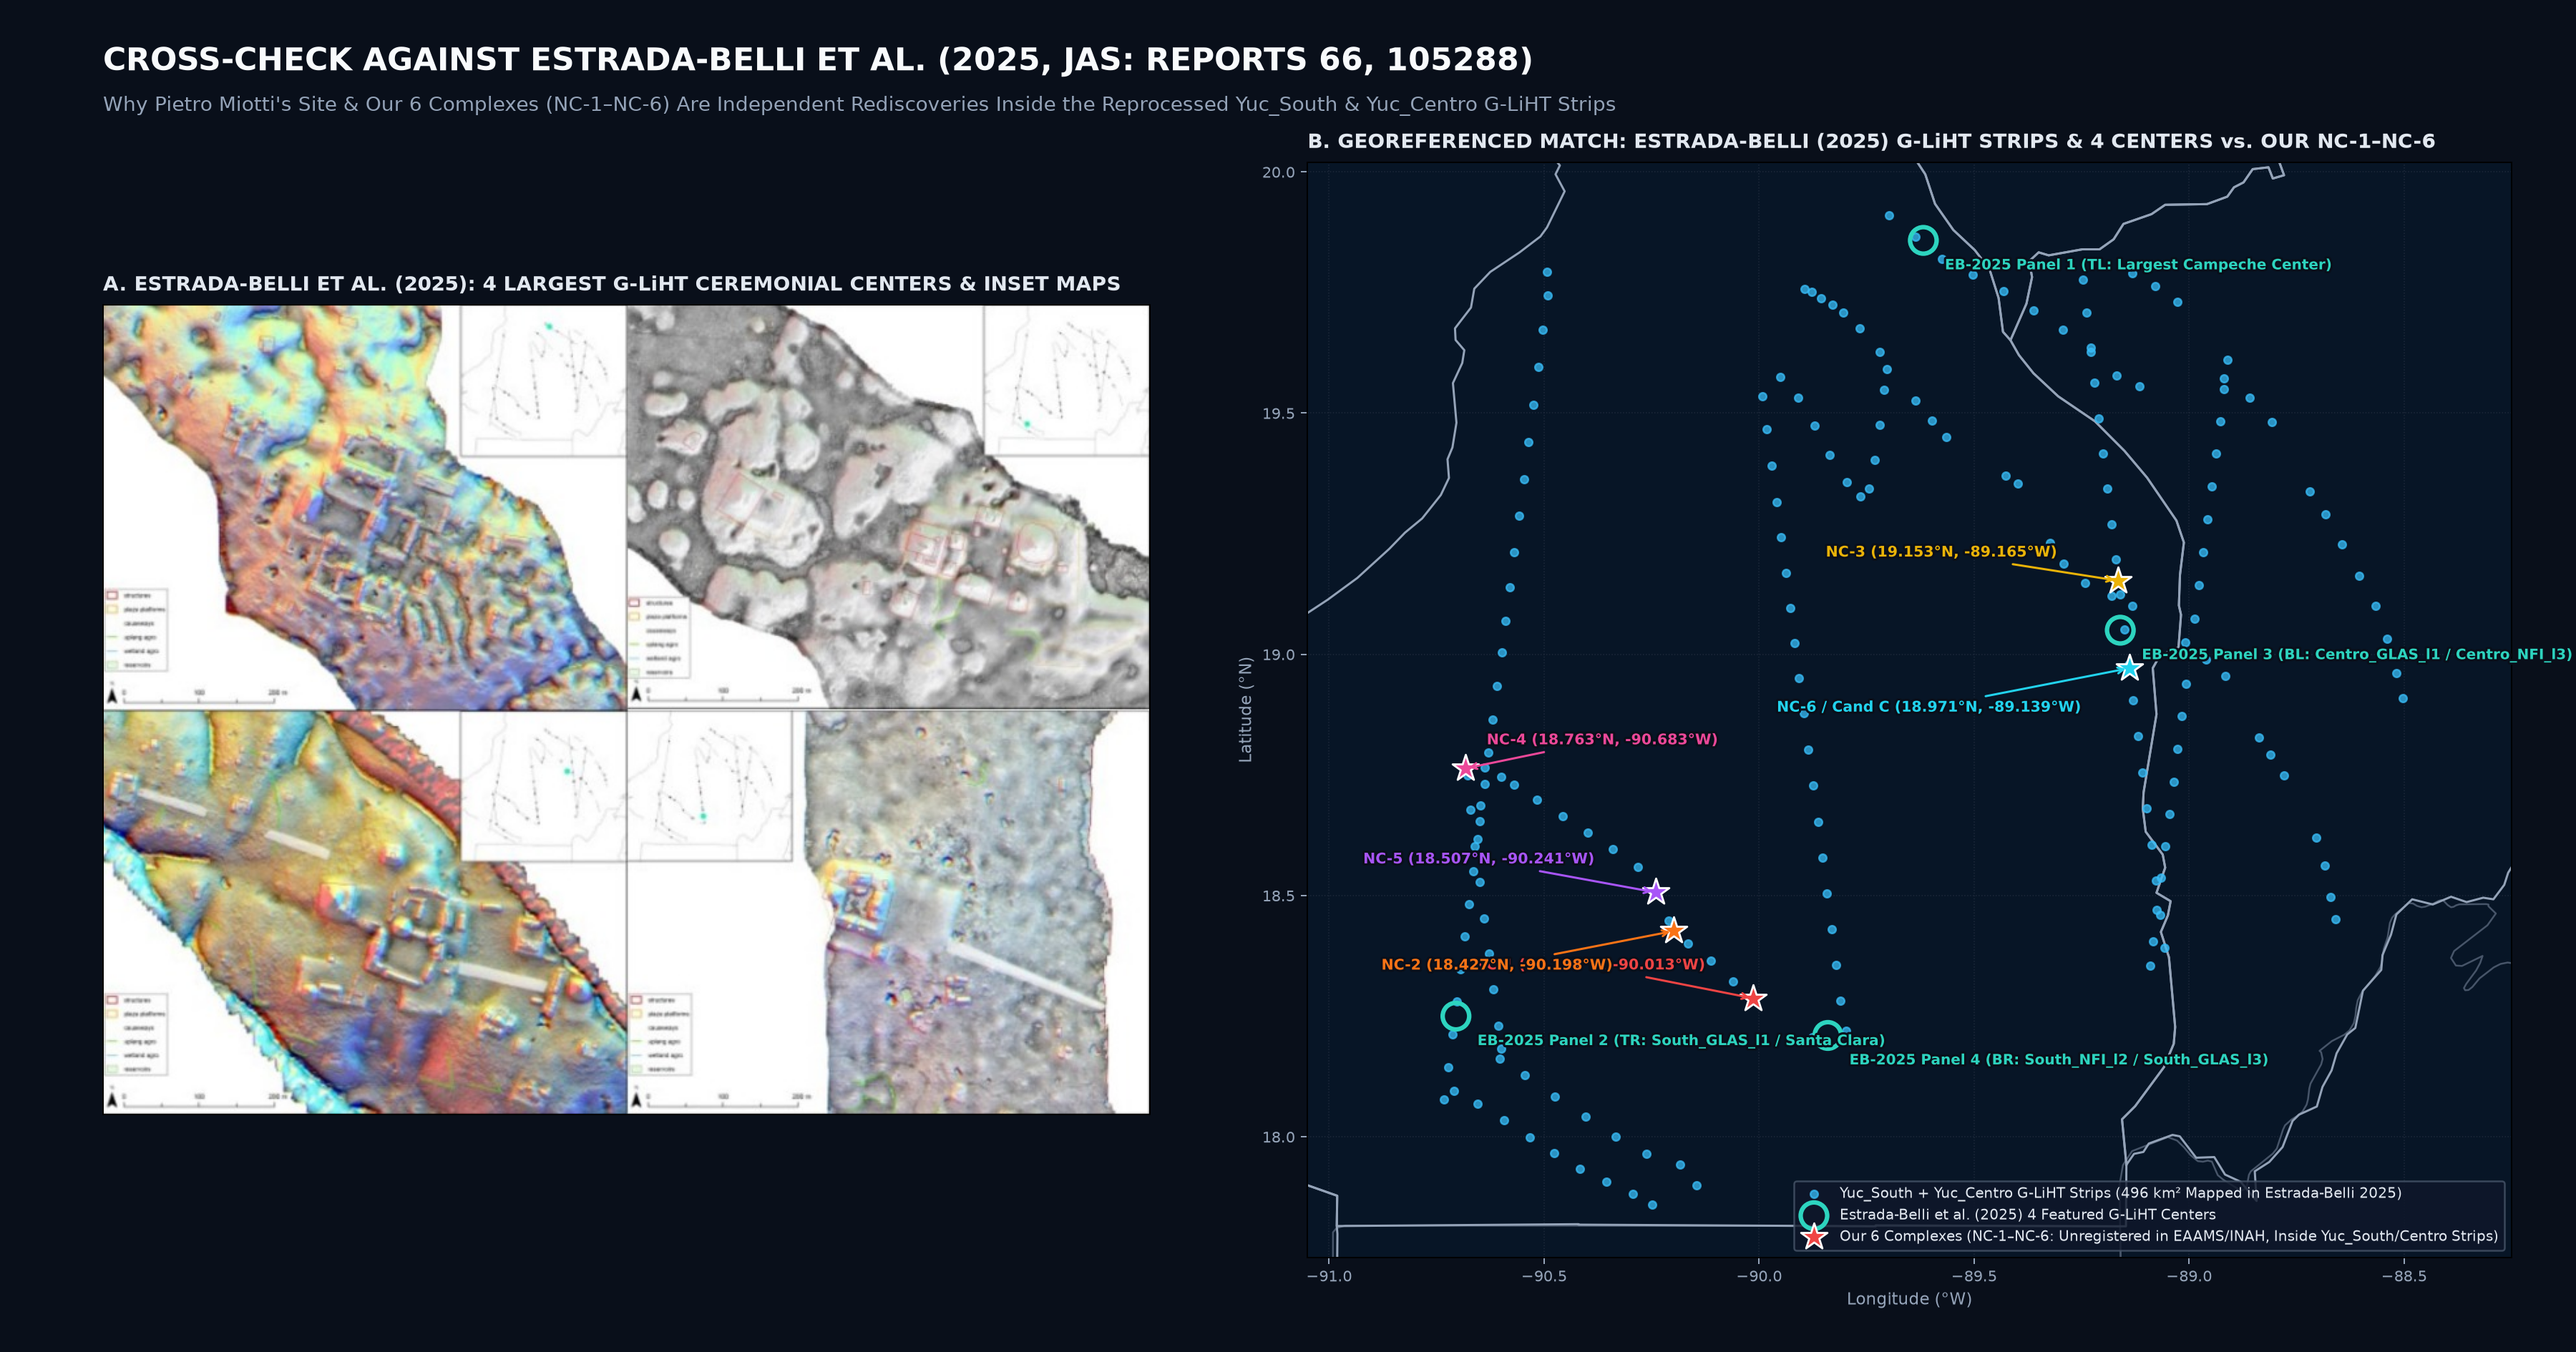
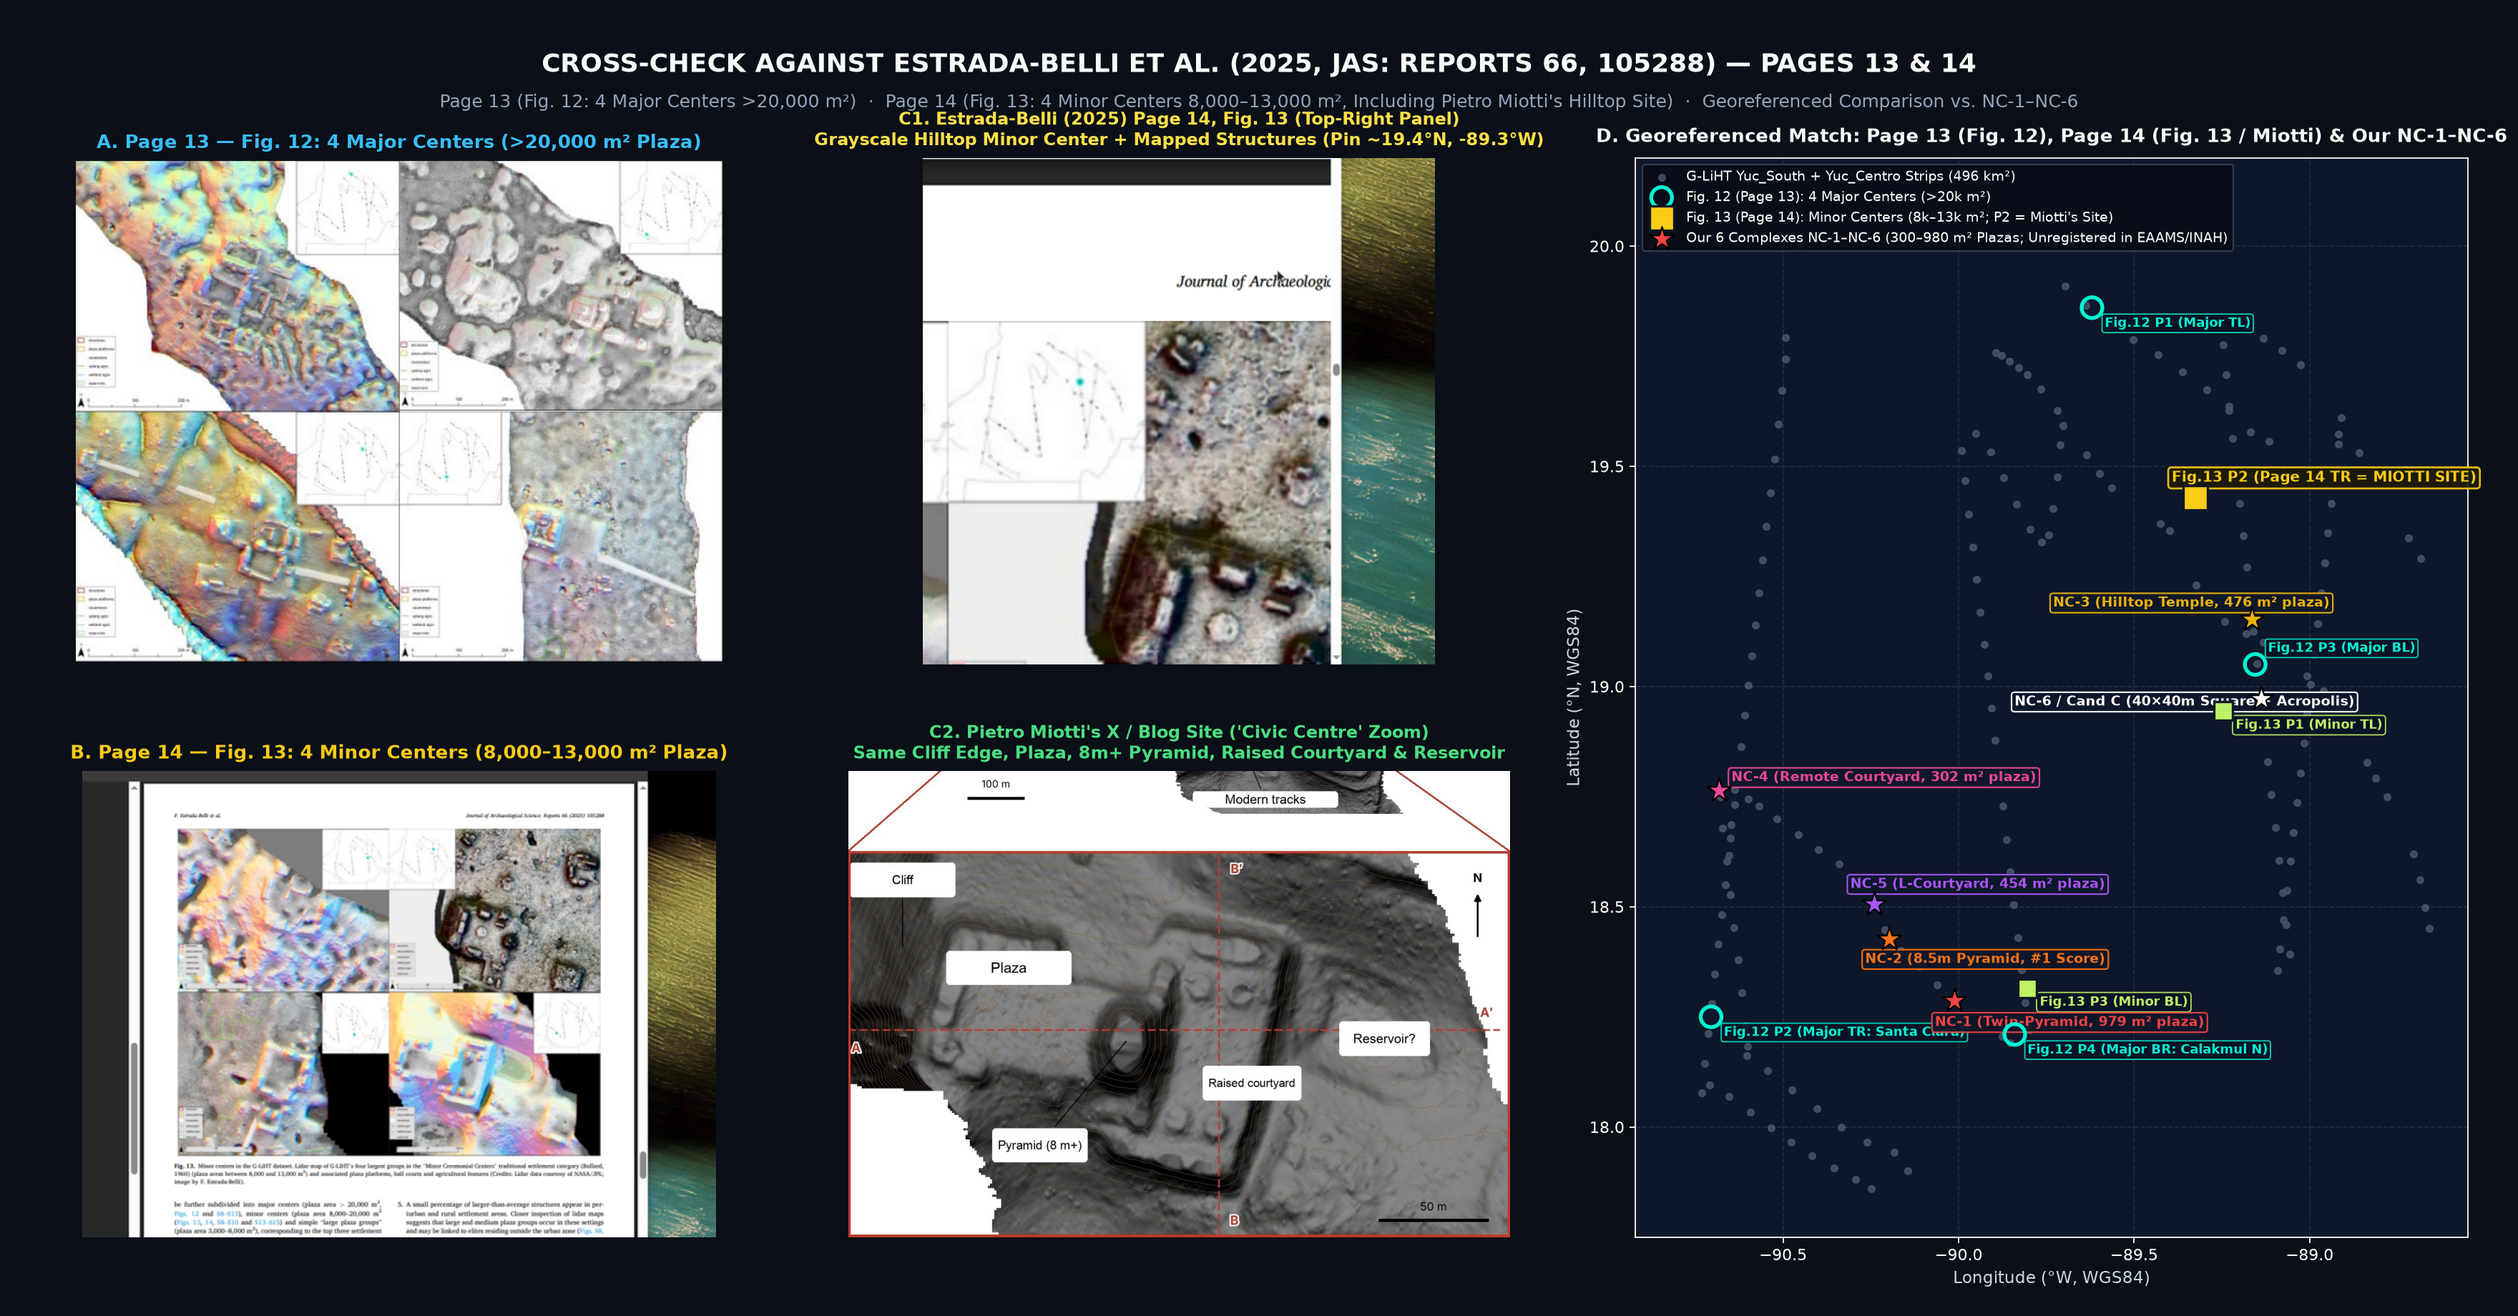
Update Estrada-Belli (2025) comparison with Page 14 (Fig. 13) match to Miotti site

diff --git a/README.md b/README.md
@@ -116,26 +116,28 @@ On November 11, 2026, Pietro Miotti updated the top of his blog post ([pietromio
 
 > *"Update (11 November): it turns out the site had already been mapped in Estrada-Belli et al. 2025. The agents missed it while going through the literature, so they rediscovered it rather than discovered it (it just wasn't in INAH's register yet). Still work to do then!"*
 
-We pulled and analyzed **Estrada-Belli, Canuto, Šprajc & Fernandez-Diaz (July 2025)** — *"New regional-scale Classic Maya population density estimates and settlement distribution models through airborne lidar scanning"* (*Journal of Archaeological Science: Reports*, Vol. 66, 105288, [DOI: 10.1016/j.jasrep.2025.105288](https://doi.org/10.1016/j.jasrep.2025.105288)) — and georeferenced its G-LiHT flight-line inset maps directly against our 456 transects and `NC-1` through `NC-6`:
+We pulled and analyzed **Estrada-Belli, Canuto, Šprajc & Fernandez-Diaz (July 2025)** — *"New regional-scale Classic Maya population density estimates and settlement distribution models through airborne lidar scanning"* (*Journal of Archaeological Science: Reports*, Vol. 66, 105288, [DOI: 10.1016/j.jasrep.2025.105288](https://doi.org/10.1016/j.jasrep.2025.105288)) — inspecting both **Page 13 (Figure 12: Major Centers `> 20,000 m²` plaza)** and **Page 14 (Figure 13: Minor Centers `8,000–13,000 m²` plaza)** and georeferencing their G-LiHT flight-line inset pins directly against Pietro Miotti's site and our `NC-1` through `NC-6`:
 
 ![Cross-Check Against Estrada-Belli et al. (2025, JAS: Reports 66, 105288)](media/estrada-belli-2025-gliht-comparison.png)
 
-### What Estrada-Belli et al. (2025) Did — And What It Means for `NC-1`–`NC-6`
+### What Estrada-Belli et al. (2025) Shows on Pages 13 & 14 — And What It Means for Pietro's Site vs. `NC-1`–`NC-6`
 
-1. **Estrada-Belli et al. (2025) Reprocessed and Mapped the Entire `Yuc_South` & `Yuc_Centro` NASA G-LiHT Dataset (`~496 km²`):**
+1. **Yes — Pietro Miotti's Exact X/Twitter Hilltop Site Appears on Page 14 (Figure 13, Top-Right Panel):**
+   - While **Page 13 (Figure 12, `Panel A` above)** illustrates the 4 largest **Major Ceremonial Centers** (`plaza area > 20,000 m²`), **Page 14 (Figure 13, `Panel B` above)** is captioned: *"Fig. 13. Minor centers in the G-LiHT dataset. Lidar map of G-LiHT's four largest groups in the 'Minor Ceremonial Centers' traditional settlement category (Bullard, 1960) (plaza areas between 8,000 and 13,000 m²) and associated plaza platforms, ball courts and agricultural features."*
+   - Side-by-side comparison (`Panels C1 & C2` above) confirms that **Figure 13's top-right panel on Page 14 (`Pin ~19.43°N, -89.33°W` in central Campeche)** is **Pietro Miotti's exact cliff-edge hilltop civic center**: it displays the same western cliff escarpment, flat western plaza, central `8–12 m` pyramid, eastern attached raised courtyard, eastern reservoir (`aguada`) depression, and southern downslope platforms.
+
+2. **Estrada-Belli et al. (2025) Also Mapped the Entire `Yuc_South` & `Yuc_Centro` NASA G-LiHT Dataset (`~496 km²`, `21,687+` Structures):**
    - To estimate Classic Maya population across a `95,000 km²` region (`9.5–16 million` people), Estrada-Belli, Canuto, Šprajc, and Fernandez-Diaz aggregated `853 km²` of airborne LiDAR in Southern Campeche and Southern Quintana Roo: (a) the **2013 NASA G-LiHT `Yuc_South` and `Yuc_Centro` strips (`~496 km²`)**, reprocessed from raw point clouds using NCALM / Fernandez-Diaz’s adaptive TIN ground-classification routine; (b) the 2013 Alianza M-REDD+ Campeche strips (`~122 km²`, Auld-Thomas et al. 2024); and (c) the 2016 Chactún–Tamchén–Lagunita block (`~236 km²`, Šprajc et al. 2021/2022).
    - Across those `Yuc_South` and `Yuc_Centro` G-LiHT strips, Estrada-Belli et al. (2025) **mapped every structure, plaza platform, causeway (`sacbé`), reservoir (`aguada`), and agricultural feature**, demonstrating that **nearly 100% of rural residences lie within `5 km` of a medium or large elite-controlled plaza group**.
-   - Furthermore, three other academic studies have also scanned these exact public NASA G-LiHT strips at macro-scale: **Schroder, Murtha, Golden et al. (2020, *JAS: Reports* 33, 102543)** annotated structure/platform densities across all `458` G-LiHT tiles; **Hutson, Dunning, Cook et al. (2021, *J. Anthropol. Res.*)** digitized `>2,500` structures and `74` basal platforms on `Centro_GLAS`; and **Benjamin Britton (Nov 4, 2026, OpenTopography DOIs `10.5069/G9TH8JX9` & `10.5069/G9Z899N1`)** reprocessed all `456` strips at `0.33 m` using Fernandez-Diaz & Estrada-Belli et al. (2025)’s ground-classification parameters to catalog **57,181 structures**.
+   - Three other academic studies have also scanned these public NASA G-LiHT strips at macro-scale: **Schroder et al. (2020, *JAS: Reports* 33, 102543)** across all `458` G-LiHT tiles; **Hutson et al. (2021, *J. Anthropol. Res.*)** across `Centro_GLAS`; and **Benjamin Britton (Nov 4, 2026, OpenTopography DOIs `10.5069/G9TH8JX9` & `10.5069/G9Z899N1`)** cataloging **57,181 structures** at `0.33 m`.
 
-2. **Exact Status of `NC-1` through `NC-6` (Rediscovery vs. First Discovery):**
-   - **All 6 of our complexes (`NC-1` through `NC-6`) sit directly on the `Yuc_South` (`South_NFI` / `South_GLAS`) and `Yuc_Centro` (`Centro_GLAS`) G-LiHT transects mapped by Estrada-Belli et al. (2025), Schroder et al. (2020), and Britton (2026).**
-   - **Are `NC-1`–`NC-6` the 4 specific ceremonial centers pictured in Estrada-Belli et al. (2025)’s 4-panel figure (`Panel A` above)?**
-     Georeferencing the 4 turquoise inset pins in Estrada-Belli et al. (2025)’s figure (`Panel B` above) shows:
-     - **EB-2025 Panel 1 (`TL`, `~19.86°N, -89.62°W`):** Northern tip of the central Campeche corridor (`Centro_NFI_l10s489` / `South_NFI_l3s483`) — distinct from `NC-1`–`NC-6`.
-     - **EB-2025 Panel 2 (`TR`, `~18.25°N, -90.70°W`):** Southern end of `South_GLAS_l1` (`South_GLAS_l1s406–407`, at the `EAAMS` Rank-3 center of **Santa Clara**, which our pipeline automatically flagged and filtered out as known).
-     - **EB-2025 Panel 3 (`BL`, `~19.05°N, -89.16°W`):** Sits on the `Centro_GLAS_l1` / `Centro_NFI_l3` borderland corridor directly between **`NC-6 / Candidate C` (`18.971°N`)** and **`NC-3` (`19.153°N`)**.
-     - **EB-2025 Panel 4 (`BR`, `~18.21°N, -89.84°W`):** Sits on the `South_NFI_l2` / `South_GLAS_l3` Calakmul-north corridor (`Candidate D` / *Central Buenfil*, `~14 km` SE of **`NC-1`**).
-   - **Bottom-Line Verdict:** Just like Pietro Miotti’s hilltop site, **`NC-1` through `NC-6` are unnamed, unexcavated Maya plaza/pyramid complexes that do NOT yet exist in traditional named site atlases (`EAAMS` 5,223 sites) or INAH’s public `SIC` registry (`8.0–19.6 km` from the nearest named point), but their G-LiHT strips WERE already mapped at regional scale in Estrada-Belli et al. (2025), Schroder et al. (2020), and Britton (2026).** They should therefore be presented as **independent computational rediscoveries and 3D point-cloud characterizations of unnamed Maya complexes**, rather than claimed as brand-new first-ever archaeological discoveries.
+3. **Are Our `NC-1` through `NC-6` Pictured on Page 13 (Figure 12) or Page 14 (Figure 13)?**
+   - **No — `NC-1` through `NC-6` are NOT the spotlighted centers pictured in Figure 12 (Page 13) or Figure 13 (Page 14):**
+     - Our `NC-1` through `NC-5` are compact, enclosed courtyard/pyramid complexes with leveled plaza interiors of **`302 m²` to `979 m²`** — an order of magnitude smaller than the `8,000–13,000 m²` Minor Centers in **Figure 13 (Page 14)** and the `> 20,000 m²` Major Centers in **Figure 12 (Page 13)**.
+     - Georeferencing all turquoise inset pins from **Figure 12 (Page 13)** and **Figure 13 (Page 14)** (`Panel D` above) confirms that none of the pins fall on `NC-1` (`South_NFI_l2s450`), `NC-2` (`South_NFI_l2s446`), `NC-3` (`Centro_GLAS_l1s465`), `NC-4` (`South_GLAS_l2s437`), or `NC-5` (`South_NFI_l2s445`). Specifically:
+       - **Figure 12 (Page 13, Major Centers `> 20,000 m²`):** `P1` (`~19.86°N, -89.62°W`, northern Campeche); `P2` (`~18.25°N, -90.70°W`, **Santa Clara**, which our pipeline automatically flagged and filtered out as known); `P3` (`~19.05°N, -89.16°W`, on the `Centro_GLAS_l1` corridor between `NC-6` and `NC-3`); and `P4` (`~18.21°N, -89.84°W`, `Candidate D` / *Central Buenfil* corridor `~14 km` SE of `NC-1`).
+       - **Figure 13 (Page 14, Minor Centers `8,000–13,000 m²`):** `P1` (`~18.94°N, -89.25°W`, Campeche–Quintana Roo borderland corridor near `Centro_GLAS_l1s462–463`, distinct in layout from `NC-6`'s standalone `40×40 m` rimmed square platform); **`P2` (`~19.43°N, -89.33°W`, Pietro Miotti's cliff-edge hilltop site in central Campeche)**; and `P3` (`~18.31°N, -89.81°W`, `South_GLAS_l3s455–456` near *Dos Aguadas* / *Maruchín*).
+   - **Bottom-Line Verdict:** Unlike Pietro Miotti's hilltop site — which is directly illustrated in **Figure 13 (top-right panel) on Page 14** — **`NC-1` through `NC-6` are smaller (`300–980 m²` plaza) unnamed complexes that are NOT individually pictured or named in Figures 12–13 of Estrada-Belli et al. (2025), nor in `EAAMS` (`5,223` sites) or INAH's `SIC` registry (`8.0–19.6 km` from the nearest named point). However, because the `Yuc_South` and `Yuc_Centro` G-LiHT strips were fully digitized at regional scale in Estrada-Belli et al. (2025), Schroder et al. (2020), and Britton (2026), `NC-1`–`NC-6` are already part of those studies' aggregate regional structure inventories.** They are presented here as **open-source computational detections and 3D point-cloud characterizations of unnamed Maya complexes** inside those public NASA G-LiHT transects.
 
 ---
 
